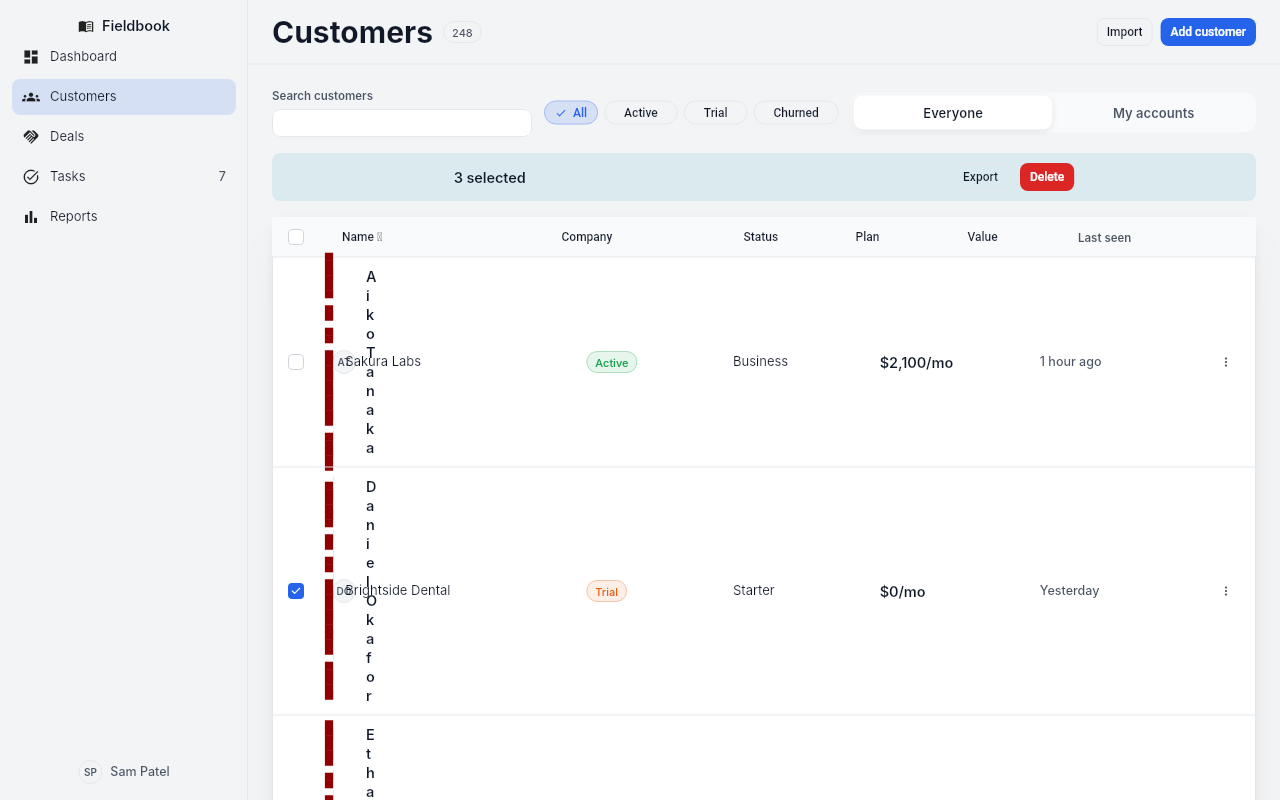
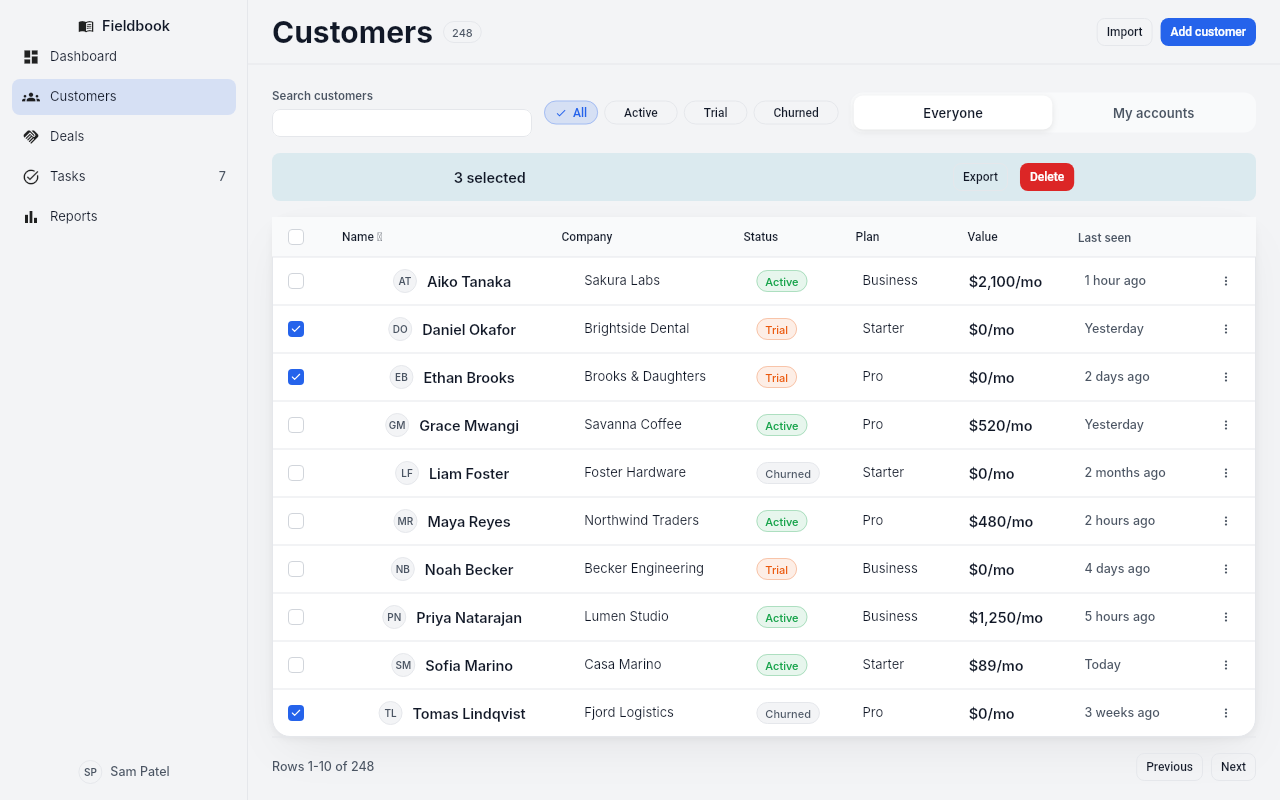
Desktop pages: from scratch first (tool/native.py); the Cards blocks are cut out of the desktop pipeline
Claude-Session: https://claude.ai/code/session_015oUVfwNVWy9ad6cw6XaVi6

diff --git a/examples/showcase/tool/native.py b/examples/showcase/tool/native.py
@@ -1,0 +1,186 @@
+#!/usr/bin/env python3
+"""Desktop pages designed from scratch: a strong model writes each request of
+examples/showcase/desktop/requests.json as a whole layout document at the full API, with no design system and
+no components: the API's reference, one paragraph of style, and the request. It then sees its page rendered
+and revises it as its own art director. The pages that come out are the references for what a desktop layout
+is, before any block is made from them.
+
+    ANTHROPIC_API_KEY=... python3 examples/showcase/tool/native.py --out examples/showcase/desktop/native \
+        [--only a,b] [--model claude-opus-5-5] [--rounds 3] [--width 1280] [--narrow 768] [--style <file>]
+
+Each round: the answer's document is validated and rendered at --width (a website to its end, an app window at
+the window's size) and at --narrow; the pictures and everything reported go back, and the model answers with
+the whole document again, or SHIP. The round with the fewest errors is kept (the later of equals).
+Writes <out>/<page>/round<n>/ (answer.txt, doc.json, light.png, narrow.png, problems.txt), <out>/<page>.json,
+<page>.png, <page>-narrow.png and <out>/summary.json. The key is read from the environment and never written."""
+import concurrent.futures, json, os, re, shutil, sys, time, urllib.request
+
+sys.path.insert(0, os.path.dirname(os.path.abspath(__file__)))
+from design_block import SDK, crop, image, opt, run  # noqa: E402
+
+API = os.path.join(os.path.dirname(SDK), 'CodelesslyAPI', 'docs', 'reference')
+PAGES = ('STARTER', 'layout', 'decoration', 'interaction', 'charts', 'lists')
+FONTS = os.path.join(SDK, 'design_systems', 'cards', 'fonts')
+
+STYLE = ('A calm, confident product design. A light neutral page (#FFF6F7F9) with white surfaces; near-black ink (#FF0F172A) with two quieter '
+         'grays for secondary and tertiary text; one accent (#FF2563EB) used sparingly for the primary action, links and the selected state, and '
+         'soft tints of green, amber and red for status. Type is Inter (body 15 with a 1.55 line height) with Inter Display for headings, set large '
+         'and tight (a website\'s title 44 to 60, an app screen\'s 22 to 28; weight 700; letter spacing about -0.02 em); figures are large. '
+         'Surfaces have generous corners (16 to 24 for cards, 10 to 12 for controls), hairline borders (#FFE5E7EB) and very soft, wide shadows; '
+         'spacing is generous and on an 8 px rhythm; pictures are drawn from shapes and gradients, never photos or image URLs. Code is JetBrains Mono.')
+
+
+def system_prompt(width, narrow, style):
+    reference = '\n\n'.join(open(f'{API}/{p}.md').read() for p in PAGES)
+    return [
+        {'type': 'text', 'text': f"""You are a senior product designer who builds what you design. You write one screen as a Codelessly layout document (JSON, schema 3), directly at the API described below: there is no design system and there are no ready-made components, so every part is yours to compose from the node types, with literal colors, sizes and text styles.
+
+It is a desktop screen: a window {width} wide. Design it as a desktop-native layout, not a phone layout made wider: a real grid, columns with reasons, a content width that reads well, fixed side panes where the screen is an app, density where an app needs it and air where a website needs it. It is also rendered {narrow} wide and must hold there (columns wrap or stack, nothing overflows).
+
+Fonts available (no others): "Inter" (400, 500, 600, 700), "Inter Display" (600, 700, 800), "JetBrains Mono" (400, 500, 700). Icons are Material icon names. Pictures are drawn (gradients, shapes, customPaint), never image URLs.
+
+STYLE
+{style}
+
+ANSWER FORMAT
+Two or three sentences on the layout decisions (the grid, the hierarchy, what makes it desktop-native). Then the whole document in one ```json fence: one canvas, its design size {width} wide (a website page as tall as its content and scrolling; an app window as tall as the window, 800, with its panes scrolling by themselves), state and actions real (what the request says can be done works). Keep it under about 60,000 characters: repeat rows from a list variable (a listView or gridView over data) rather than writing each out.
+
+THE API
+"""},
+        {'type': 'text', 'text': reference, 'cache_control': {'type': 'ephemeral'}},
+    ]
+
+
+def ask(model, system, messages):
+    body = {'model': model, 'max_tokens': 32000, 'system': system, 'messages': messages}
+    req = urllib.request.Request('https://api.anthropic.com/v1/messages', data=json.dumps(body).encode(), headers={
+        'content-type': 'application/json', 'x-api-key': os.environ['ANTHROPIC_API_KEY'], 'anthropic-version': '2023-06-01'})
+    t0 = time.time()
+    for attempt in range(4):
+        try:
+            with urllib.request.urlopen(req, timeout=1500) as r:
+                answer = json.loads(r.read())
+            break
+        except Exception as e:  # noqa: BLE001  (an overloaded or rate-limited call is asked again)
+            if attempt == 3:
+                raise
+            time.sleep(20 * (attempt + 1))
+    return ''.join(b.get('text', '') for b in answer['content']), round(time.time() - t0, 1), answer.get('usage', {})
+
+
+def fenced_json(text):
+    m = re.search(r'```json\n(.*?)```', text, re.S) or re.search(r'```\n?(\{.*?)```', text, re.S)
+    return m.group(1) if m else None
+
+
+def reported(log):
+    lines = log.splitlines()
+    return [l + ('\n' + lines[i + 1] if i + 1 < len(lines) and not lines[i + 1].startswith(('ERROR', 'WARNING')) else '')
+            for i, l in enumerate(lines) if l.startswith(('ERROR', 'WARNING'))]
+
+
+def check(d, text, width, narrow, app):
+    """Renders the round's document; the problems reported."""
+    os.makedirs(d, exist_ok=True)
+    open(f'{d}/answer.txt', 'w').write(text)
+    raw = fenced_json(text)
+    if raw is None:
+        return ['The answer holds no ```json fence with the document.']
+    try:
+        doc = json.loads(raw)
+    except ValueError as e:
+        return [f'The document is not valid JSON: {e}']
+    json.dump(doc, open(f'{d}/doc.json', 'w'), indent=1)
+    if not isinstance(doc.get('roots'), list) or not doc['roots'] or doc['roots'][0] not in doc.get('nodes', {}):
+        return ['The document needs "roots": [<canvas id>] and that canvas under "nodes".']
+    # A website is captured to its end; an app window at the window's size.
+    whole = [] if app else ['--full-page']
+    problems = []
+    for name, w in (('light', width), ('narrow', narrow)):
+        folder = f'{d}/raw-{name}'
+        shutil.rmtree(folder, ignore_errors=True)
+        code, log = run(['tool/render/render.sh', f'{d}/doc.json', '--out', folder, '--sizes', f'{w}x800', '--fonts', FONTS] + whole)
+        found = reported(log)
+        if code and not found:
+            found = [f'The render stopped: {log[-400:]}']
+        problems += [(f'At {narrow} wide: ' if name == 'narrow' else '') + l for l in found if l not in problems]
+        shots = sorted(f for f in os.listdir(folder) if f.endswith('.png')) if os.path.isdir(folder) else []
+        if shots:
+            crop(f'{folder}/{shots[0]}', f'{d}/{name}.png')
+        shutil.rmtree(folder, ignore_errors=True)
+    open(f'{d}/problems.txt', 'w').write('\n'.join(problems) + '\n')
+    return problems
+
+
+def shown(path, limit=7000):
+    """A picture for the model: a long page is cut at what a model's picture can hold."""
+    from PIL import Image
+    im = Image.open(path)
+    if im.height > limit:
+        im.crop((0, 0, im.width, limit)).save(path + '.cut.png')
+        return image(path + '.cut.png')
+    return image(path)
+
+
+LOOK = ('Look at it as the art director of the best desktop product you know, at both widths. Name the five weakest things first, in a line each: the '
+        'grid and alignment, the hierarchy, the rhythm of space, density and proportion for a desktop, anything broken, clipped, empty, overflowing or '
+        'unfinished, and anything the request asked for that is missing or does not work. Then answer with the whole document again in a ```json fence, '
+        'those things fixed and everything that was right kept. If nothing is reported and you would ship it as it is, answer with the one word SHIP.')
+
+
+def design(name, request, out, model, rounds, width, narrow, system):
+    d = f'{out}/{name}'
+    messages = [{'role': 'user', 'content': request}]
+    summary = {'name': name, 'model': model, 'rounds': []}
+    for n in range(1, rounds + 1):
+        text, seconds, usage = ask(model, system, messages)
+        if n > 1 and text.strip().upper().startswith('SHIP') and '```' not in text:
+            summary['rounds'].append({'round': n, 'modelSeconds': seconds, 'shipped': n - 1})
+            break
+        problems = check(f'{d}/round{n}', text, width, narrow, name.startswith('app'))
+        errors = sum(1 for p in problems if 'ERROR' in p or not p.startswith(('WARNING', 'At ')))
+        summary['rounds'].append({'round': n, 'modelSeconds': seconds, 'problems': len(problems), 'errors': errors,
+                                  'input_tokens': usage.get('input_tokens'), 'cached': usage.get('cache_read_input_tokens'), 'output_tokens': usage.get('output_tokens')})
+        print(name, json.dumps(summary['rounds'][-1]), flush=True)
+        if n == rounds:
+            break
+        back = [{'type': 'text', 'text': f'This is how it rendered: {width} wide, then {narrow} wide.'}]
+        back += [shown(f'{d}/round{n}/{m}.png') for m in ('light', 'narrow') if os.path.exists(f'{d}/round{n}/{m}.png')]
+        back.append({'type': 'text', 'text': ('Reported:\n' + '\n'.join(problems[:40]) + '\n\n' if problems else 'Nothing was reported.\n\n') + LOOK})
+        # The earlier answers are kept as their decisions, not their documents: only the last document matters.
+        messages = [messages[0], {'role': 'assistant', 'content': text}, {'role': 'user', 'content': back}]
+    checked = [r for r in summary['rounds'] if 'problems' in r and os.path.exists(f"{d}/round{r['round']}/light.png")]
+    if checked:
+        best = min(checked, key=lambda r: (r['errors'], -r['round']))
+        summary['final'], summary['errors'], summary['problems'] = best['round'], best['errors'], best['problems']
+        f = f"{d}/round{best['round']}"
+        shutil.copy(f'{f}/doc.json', f'{out}/{name}.json')
+        shutil.copy(f'{f}/light.png', f'{out}/{name}.png')
+        if os.path.exists(f'{f}/narrow.png'):
+            shutil.copy(f'{f}/narrow.png', f'{out}/{name}-narrow.png')
+    json.dump(summary, open(f'{d}/summary.json', 'w'), indent=1)
+    return summary
+
+
+def main():
+    out = os.path.abspath(opt('--out', os.path.join(SDK, 'examples', 'showcase', 'desktop', 'native')))
+    os.makedirs(out, exist_ok=True)
+    width, narrow = int(opt('--width', '1280')), int(opt('--narrow', '768'))
+    style = open(opt('--style')).read().strip() if opt('--style') else STYLE
+    system = system_prompt(width, narrow, style)
+    open(f'{out}/prompt.txt', 'w').write(system[0]['text'] + f'(the reference pages: {", ".join(PAGES)})\n')
+    requests = json.load(open(opt('--requests', os.path.join(SDK, 'examples', 'showcase', 'desktop', 'requests.json'))))
+    only = opt('--only')
+    todo = {k: v for k, v in requests.items() if not only or k in only.split(',')}
+    model, rounds = opt('--model', 'claude-opus-5-5'), int(opt('--rounds', '3'))
+    with concurrent.futures.ThreadPoolExecutor(int(opt('--parallel', '5'))) as pool:
+        results = list(pool.map(lambda kv: design(kv[0], kv[1], out, model, rounds, width, narrow, system), todo.items()))
+    all_ = json.load(open(f'{out}/summary.json')) if os.path.exists(f'{out}/summary.json') else {}
+    all_.update({r['name']: r for r in results})
+    json.dump(all_, open(f'{out}/summary.json', 'w'), indent=1)
+    for r in results:
+        print(r['name'], 'kept round', r.get('final'), 'errors', r.get('errors'), 'problems', r.get('problems'))
+
+
+if __name__ == '__main__':
+    main()

diff --git a/examples/showcase/desktop/README.md b/examples/showcase/desktop/README.md
@@ -29,13 +29,19 @@ content in a centered column) and `App` with `Sidebar`, `Main`, `Pane` (a window
 scrolling by itself), plus `NavItem`, `Link` and `Heading`. They are written out as plain lines before they are
 read, so everything inside a frame is written as on a card. The prompt teaches them from 700 wide on.
 
-## The loop (cycle 1 of at least ten)
+## From scratch first (owner, 2026-11-15)
 
-1. A strong model writes each page as well as it can (`opus/`).
-2. The design pass restyles it in place (`reference/`: `<page>.png`, `-before.png`, `-dark.png`, `-narrow.png`,
-   the document and the run's summary). These are the references.
-3. Each reusable part of a reference becomes a block of the design system (`blocks/briefs.json`, eighteen to
-   start: the block, what it shows, and the page it is a part of; `blocks/run.sh` runs the block designer on
-   each at 1280 and 768 with the reference shown).
-4. The fast model writes the pages again with the blocks; what it still builds by hand, and where its pages fall
-   short of the references, is the next cycle's list.
+The arms above start from the Cards components and their style, which were made for a 420-wide chat card: the
+pages they give are a card's language made wider. The components are therefore cut out of the desktop
+pipeline until there are desktop-native layouts to make blocks from:
+
+1. **`native/`**: Opus designs each page from scratch at the full API (`tool/native.py`): no design system, no
+   components, the API's reference, one paragraph of style, the request. It sees its page at 1280 and 768 and
+   revises it as its own art director, three rounds. These are the references.
+2. A design pass over each reference.
+3. Each reusable part of a reference becomes a block; the library is compared with the next cycle's pages, and
+   what a block lacks to serve them is the list for the next cycle. At least ten cycles, as the inline blocks took.
+
+`reference/` (Opus in the notation with Cards, then the design pass) and `blocks/` (eighteen block briefs for
+the block designer, six of which were designed before the change of method) are kept as the record of the first
+attempt, and are not part of the design system.
